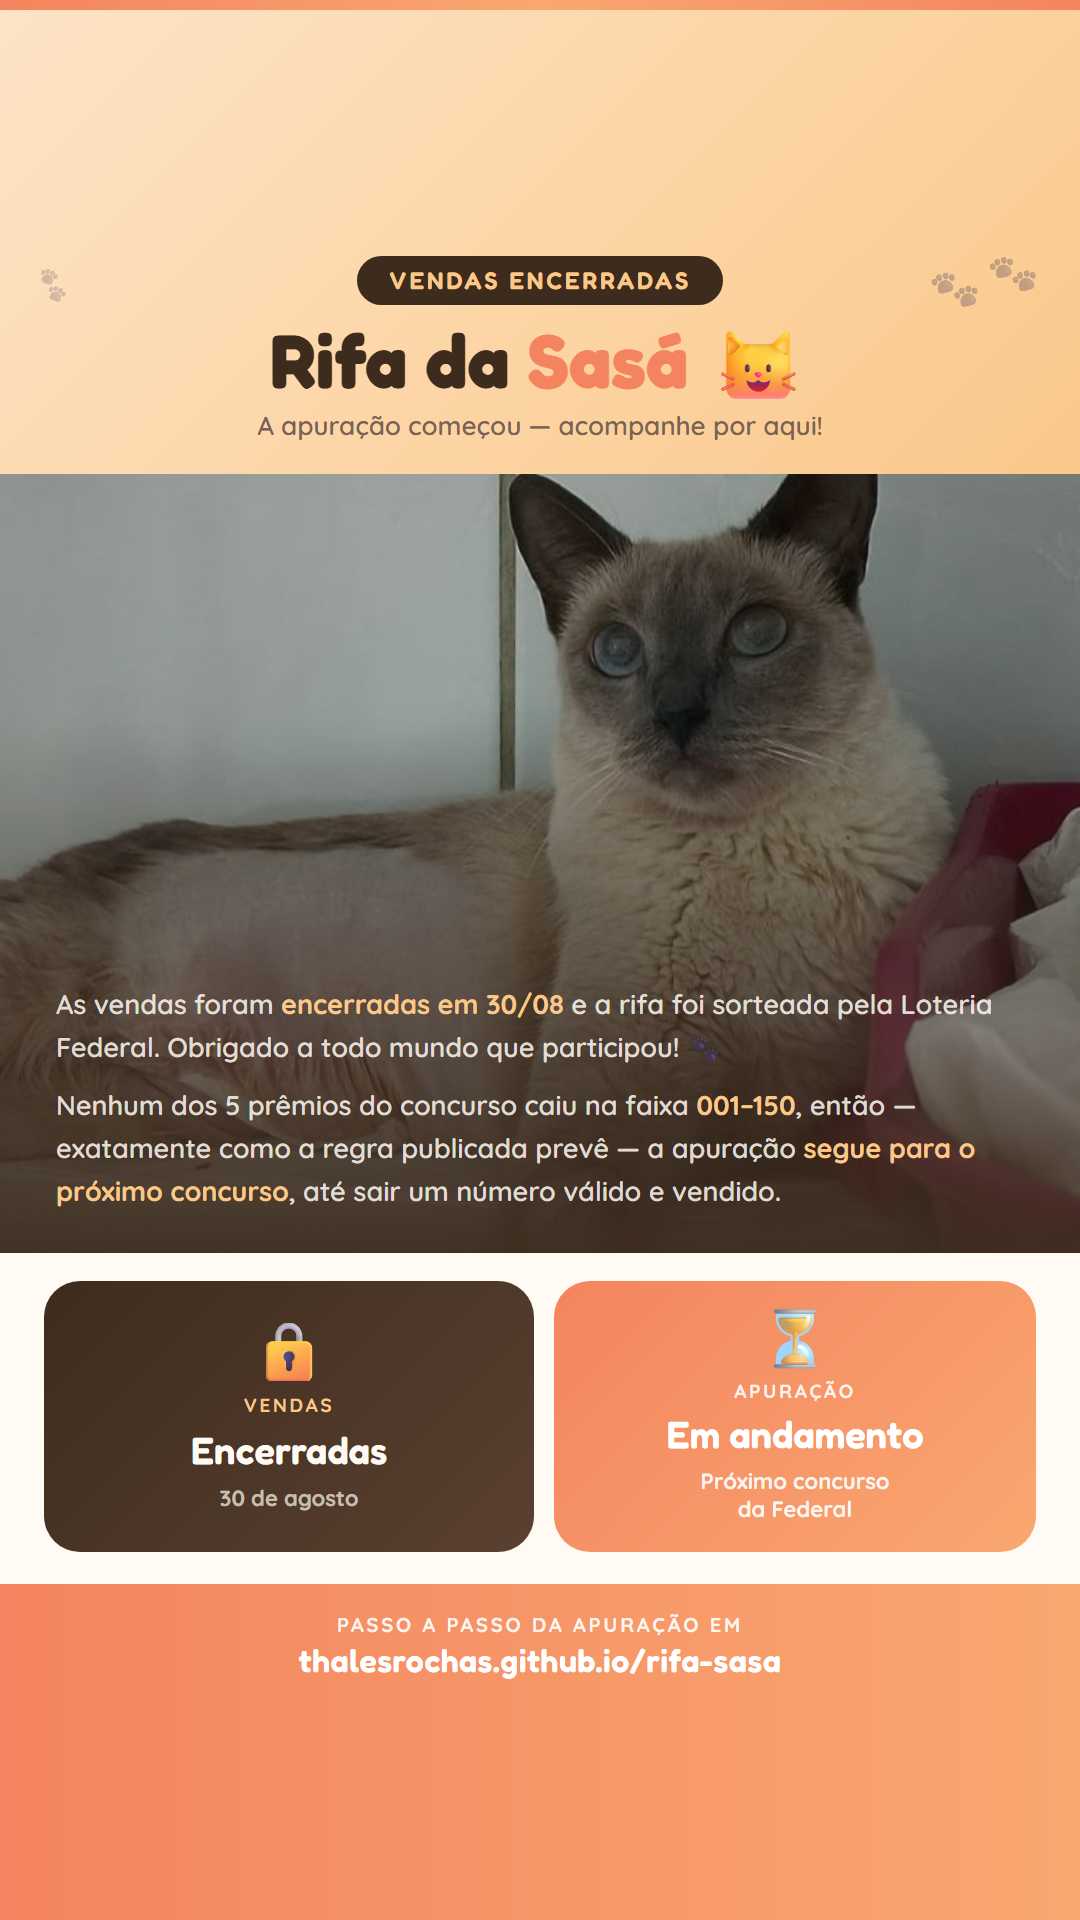
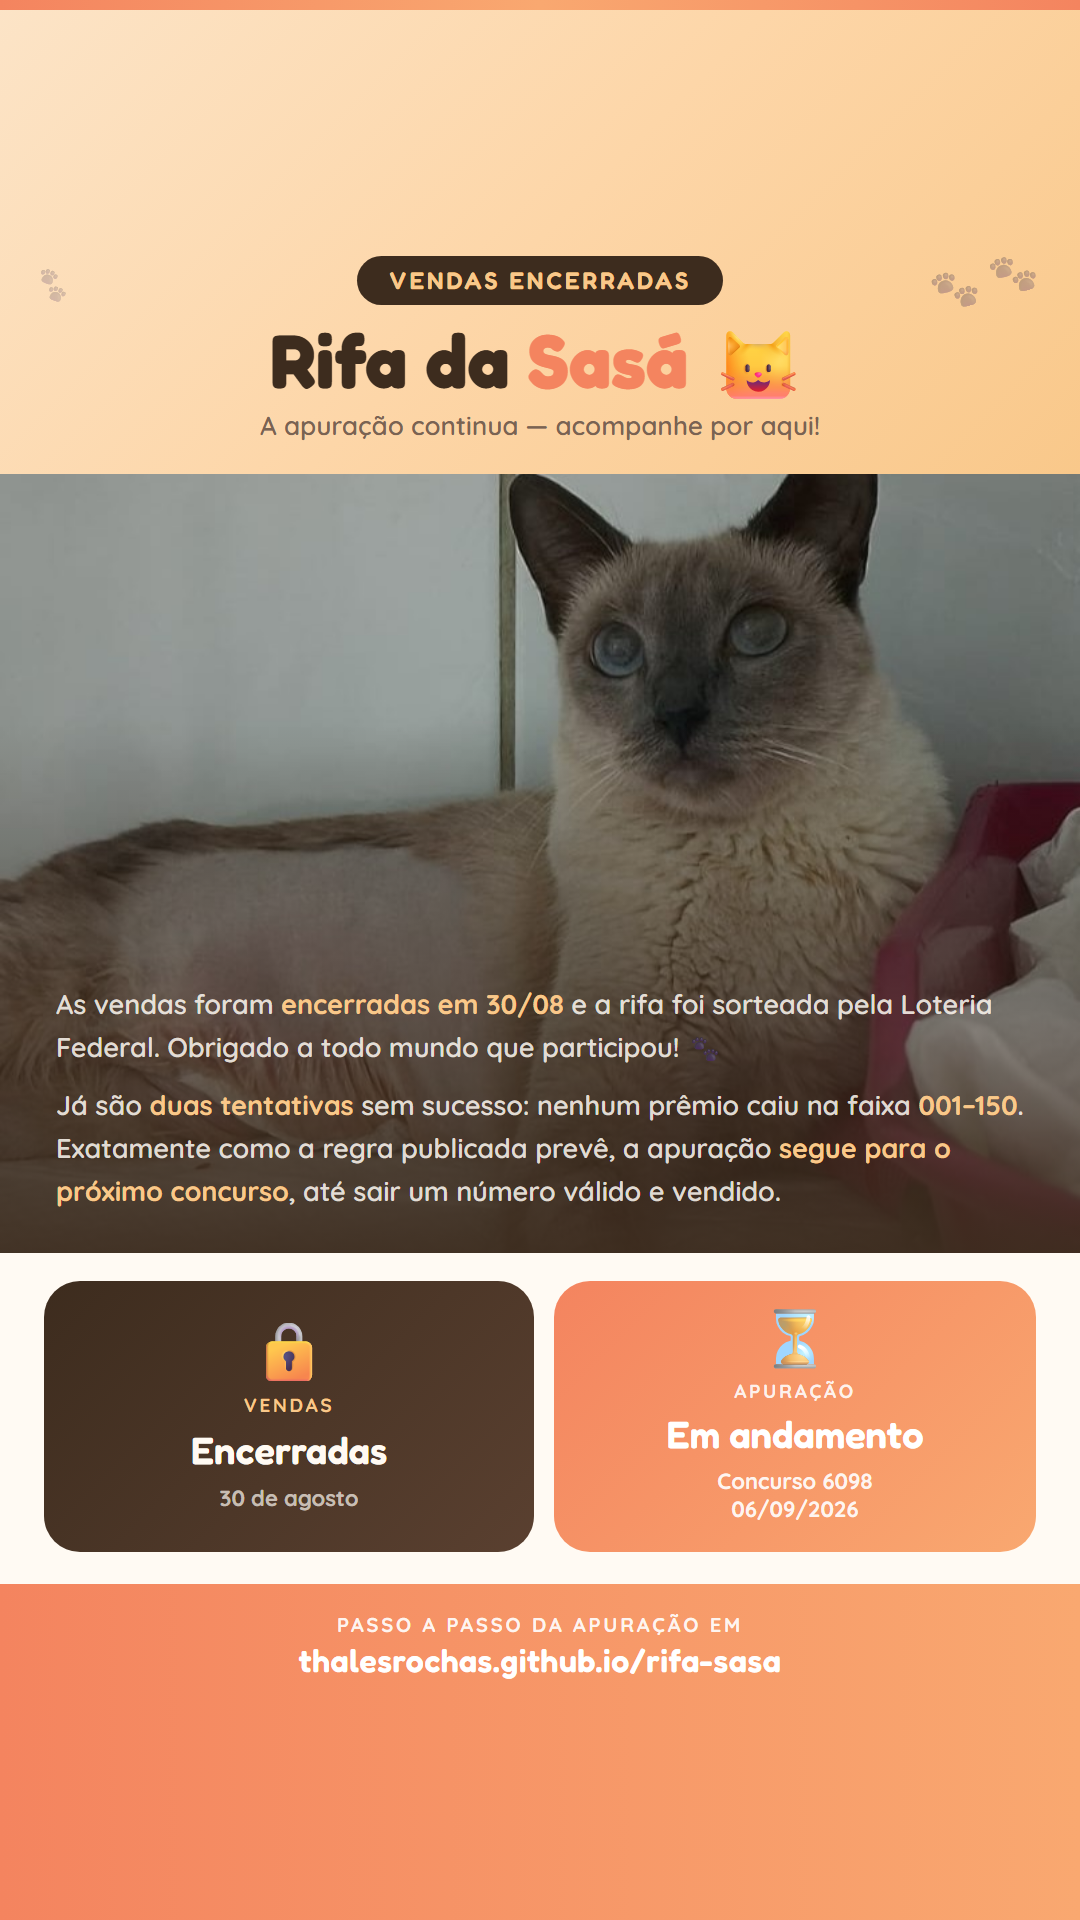
Ajusta cartaz

diff --git a/js/script.js b/js/script.js
@@ -202,7 +202,18 @@ function renderApuracao() {
   const lista = document.getElementById("apuracao-steps");
   if (!wrap || !lista) return;
 
-  const rodadas = Array.isArray(RESULTADO.rodadas) ? RESULTADO.rodadas : [];
+  // Só entram rodadas com prêmios preenchidos. Uma rodada já cadastrada
+  // mas ainda não sorteada fica de fora até você colar os números.
+  const rodadas = (Array.isArray(RESULTADO.rodadas) ? RESULTADO.rodadas : [])
+    .map(r => ({
+      concurso: r.concurso,
+      data: r.data,
+      premios: (Array.isArray(r.premios) ? r.premios : [])
+        .map(p => String(p).replace(/\D/g, ""))
+        .filter(p => p !== ""),
+    }))
+    .filter(r => r.premios.length > 0);
+
   const nota = (RESULTADO.nota || "").trim();
   if (rodadas.length === 0 && nota === "") return;
 
@@ -212,19 +223,54 @@ function renderApuracao() {
   }
 
   const faixa = `001–${String(TOTAL_NUMBERS).padStart(3, "0")}`;
-  lista.innerHTML = "";
+
+  // A rodada que decide a apuração: a que tem o vencedor ou, enquanto
+  // não houver um, a última cadastrada.
+  let finalIdx = rodadas.length - 1;
   let achouVencedor = false;
+  if (temVencedor()) {
+    for (let i = 0; i < rodadas.length; i++) {
+      if (
+        rodadas[i].premios.some(
+          p => parseInt(p.slice(-3), 10) === RESULTADO.numero,
+        )
+      ) {
+        finalIdx = i;
+        achouVencedor = true;
+        break;
+      }
+    }
+  }
 
-  for (const rodada of rodadas) {
-    if (achouVencedor) break;
+  // O cartaz (formato fixo de Stories) só tem espaço para uma rodada em
+  // detalhe. Rodadas anteriores à decisiva entram resumidas numa linha
+  // só — no site (que pode rolar) o histórico completo continua saindo.
+  const compacto = document.body.classList.contains("is-poster");
+  const primeiraExibida = compacto ? Math.max(finalIdx, 0) : 0;
 
-    // Só entram rodadas com prêmios preenchidos. Uma rodada já cadastrada
-    // mas ainda não sorteada fica de fora até você colar os números.
-    const premios = (Array.isArray(rodada.premios) ? rodada.premios : [])
-      .map(p => String(p).replace(/\D/g, ""))
-      .filter(p => p !== "");
-    if (premios.length === 0) continue;
+  lista.innerHTML = "";
 
+  if (compacto && rodadas.length > 0 && finalIdx > 0) {
+    const anteriores = rodadas
+      .slice(0, finalIdx)
+      .map(r => r.concurso)
+      .filter(Boolean);
+    const resumo = document.createElement("div");
+    resumo.className = "apuracao-history";
+    resumo.textContent =
+      (anteriores.length === 1
+        ? `Concurso ${anteriores[0]}`
+        : `Concursos ${anteriores.join(", ")}`) +
+      " — nenhum prêmio caiu em número vendido. Seguimos adiante:";
+    lista.appendChild(resumo);
+  }
+
+  for (
+    let idx = primeiraExibida;
+    idx <= finalIdx && idx < rodadas.length;
+    idx++
+  ) {
+    const rodada = rodadas[idx];
     const grupo = document.createElement("div");
     grupo.className = "apuracao-rodada";
 
@@ -237,8 +283,9 @@ function renderApuracao() {
       grupo.appendChild(cab);
     }
 
-    for (let i = 0; i < premios.length; i++) {
-      const bruto = premios[i];
+    let venceuNestaRodada = false;
+    for (let i = 0; i < rodada.premios.length; i++) {
+      const bruto = rodada.premios[i];
       const digitos = bruto.slice(-3).padStart(3, "0");
       const num = parseInt(digitos, 10);
       const venceu = temVencedor() && num === RESULTADO.numero;
@@ -246,7 +293,7 @@ function renderApuracao() {
       let veredito;
       if (venceu) {
         veredito = `Número ${num}, vendido — é o vencedor! 🏆`;
-        achouVencedor = true;
+        venceuNestaRodada = true;
       } else if (num >= 1 && num <= TOTAL_NUMBERS) {
         veredito = `Número ${num} não foi vendido — vamos para o próximo prêmio`;
       } else {
@@ -271,7 +318,7 @@ function renderApuracao() {
     }
 
     // Rodada fechou sem vencedor: pela regra, vai para o concurso seguinte
-    if (!achouVencedor && premios.length > 0) {
+    if (!venceuNestaRodada && rodada.premios.length > 0) {
       const fim = document.createElement("div");
       fim.className = "apuracao-rodada-end";
       fim.textContent =

diff --git a/cartaz-apuracao.html b/cartaz-apuracao.html
@@ -359,7 +359,7 @@
         <div class="ph-paws-l">🐾</div>
         <div class="ph-badge">Vendas encerradas</div>
         <div class="ph-title">Rifa da <span>Sasá</span> 🐱</div>
-        <div class="ph-sub">A apuração começou — acompanhe por aqui!</div>
+        <div class="ph-sub">A apuração continua — acompanhe por aqui!</div>
       </div>
 
       <!-- FOTO FULL-BLEED -->
@@ -372,10 +372,10 @@
             🐾
           </p>
           <p>
-            Nenhum dos 5 prêmios do concurso caiu na faixa
-            <strong>001–150</strong>, então — exatamente como a regra publicada
-            prevê — a apuração <strong>segue para o próximo concurso</strong>,
-            até sair um número válido e vendido.
+            Já são <strong>duas tentativas</strong> sem sucesso: nenhum prêmio
+            caiu na faixa <strong>001–150</strong>. Exatamente como a regra
+            publicada prevê, a apuração <strong>segue para o próximo
+            concurso</strong>, até sair um número válido e vendido.
           </p>
         </div>
       </div>
@@ -394,7 +394,7 @@
             <div class="apur-icon">⏳</div>
             <div class="apur-eyebrow">Apuração</div>
             <div class="apur-title">Em andamento</div>
-            <div class="apur-note">Próximo concurso<br />da Federal</div>
+            <div class="apur-note">Concurso 6098<br />06/09/2026</div>
           </div>
 
         </div>

diff --git a/cartaz-resultado.html b/cartaz-resultado.html
@@ -186,6 +186,12 @@
         margin-bottom: 9px;
       }
 
+      .poster .apuracao-history {
+        font-size: 11.5px;
+        margin-bottom: 10px;
+        padding-bottom: 9px;
+      }
+
       .poster .apuracao-step {
         padding: 5px 10px;
       }
@@ -261,10 +267,13 @@
       }
     </style>
   </head>
-  <body>
+  <body class="is-poster">
     <p class="hint">
       Este cartaz lê os mesmos dados de <code>RESULTADO</code> em
       <code>js/script.js</code> — atualizou lá, atualizou aqui.<br />
+      Se houver mais de uma rodada, só a decisiva aparece em detalhe; as
+      anteriores entram resumidas numa linha (o histórico completo fica no
+      site, que pode rolar à vontade).<br />
       Para exportar a imagem: F12 → selecione a div
       <code>.poster</code> → ⋮ → <em>Capture node screenshot</em>
     </p>

diff --git a/css/stylesheet.css b/css/stylesheet.css
@@ -319,6 +319,17 @@ p > strong {
   margin-bottom: 12px;
 }
 
+.apuracao-history {
+  font-size: 12px;
+  font-style: italic;
+  line-height: 1.5;
+  color: rgba(255, 250, 243, 0.55);
+  text-align: center;
+  margin-bottom: 14px;
+  padding-bottom: 12px;
+  border-bottom: 1px dashed rgba(249, 200, 138, 0.2);
+}
+
 .apuracao-rodada + .apuracao-rodada {
   margin-top: 16px;
   padding-top: 14px;
